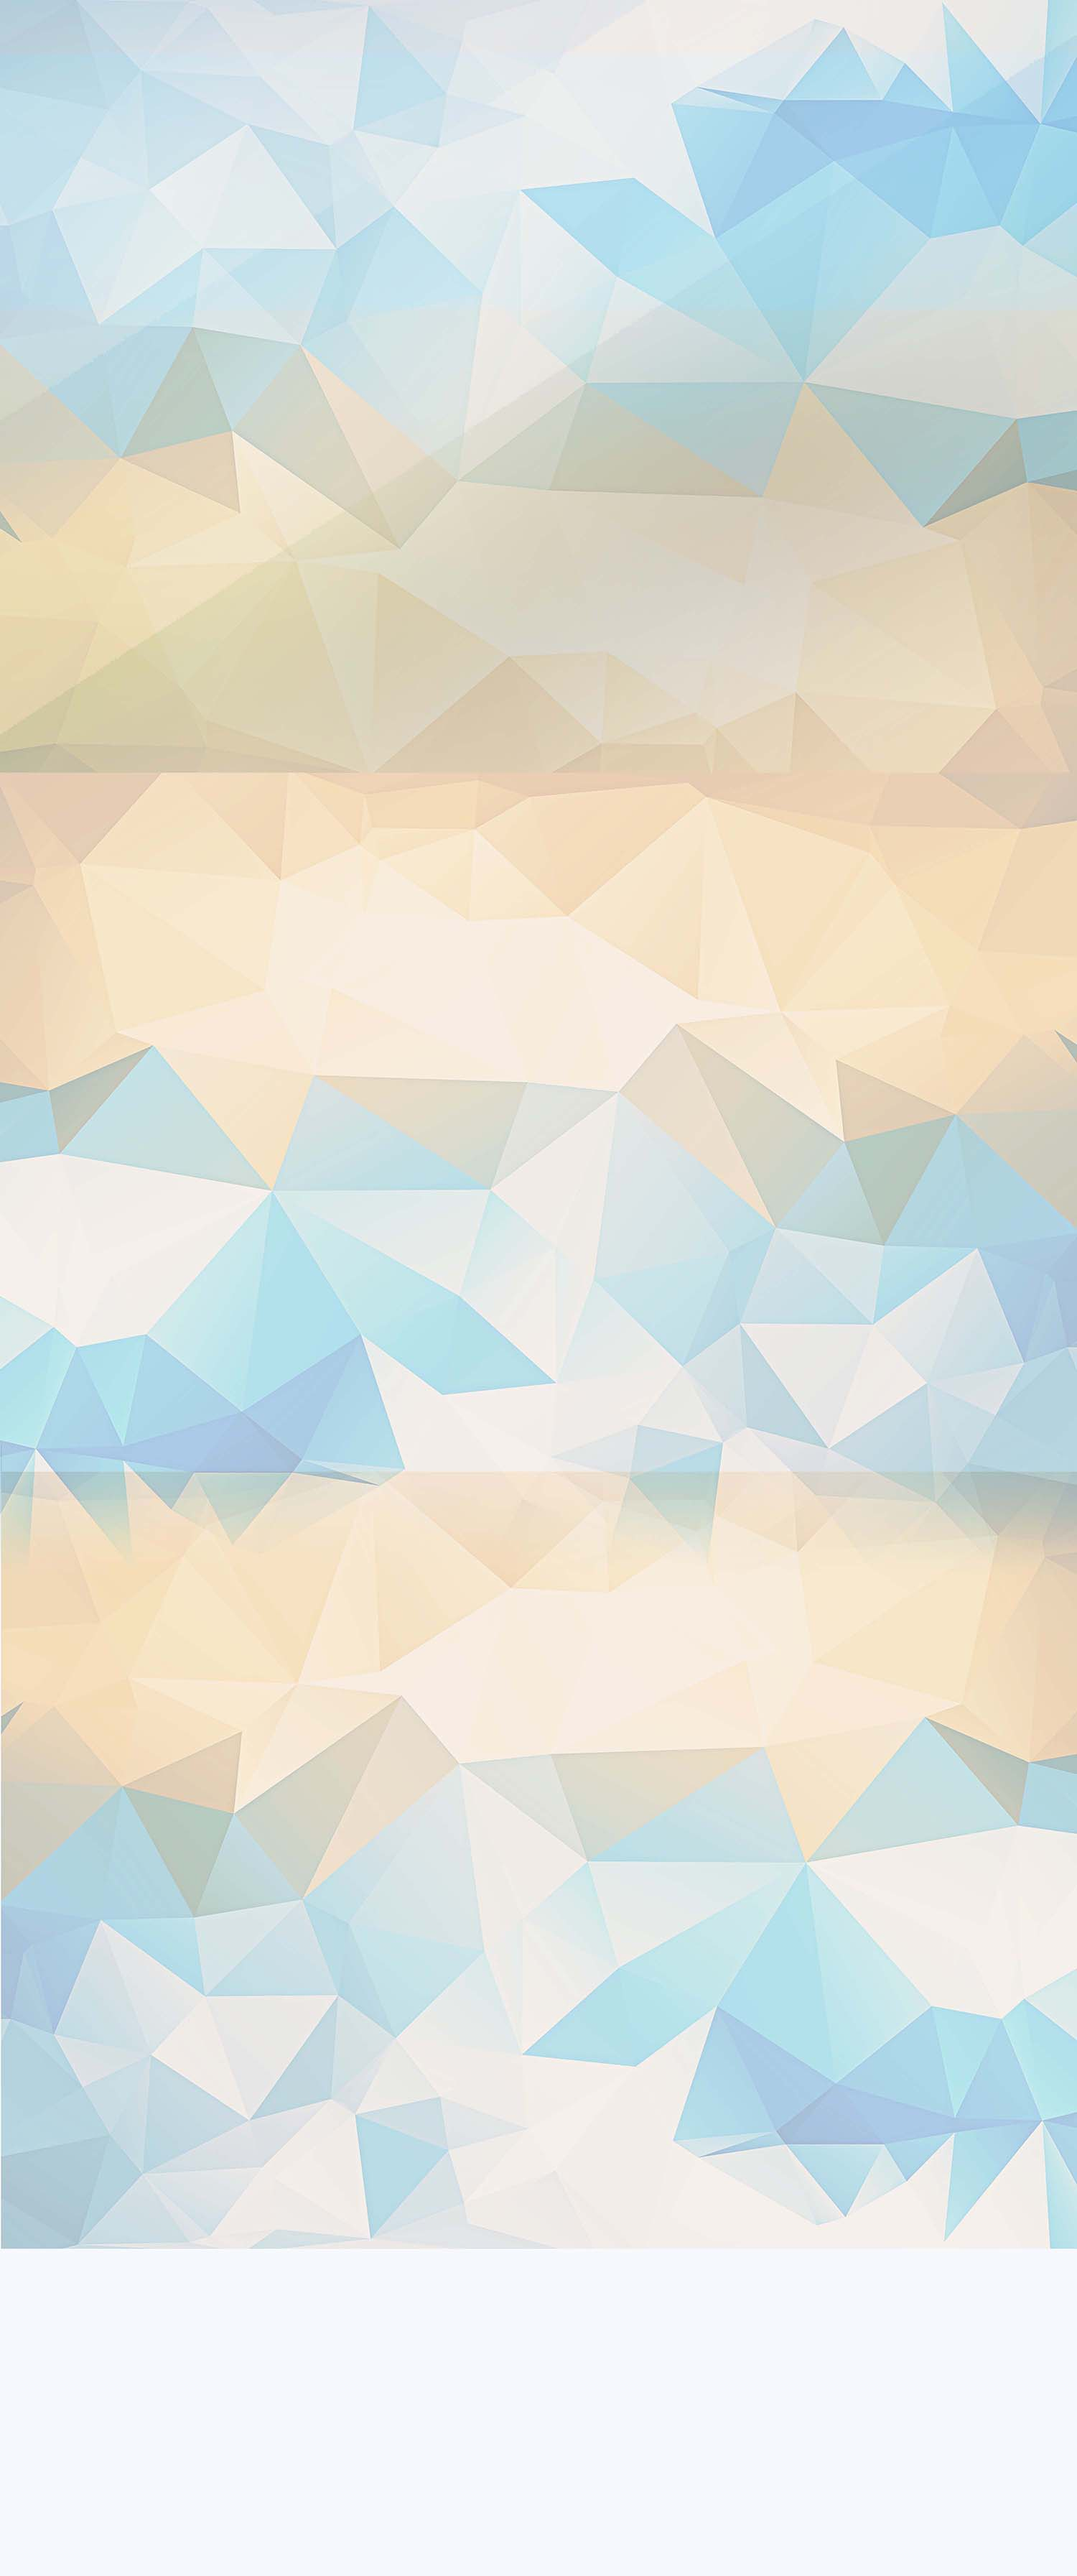
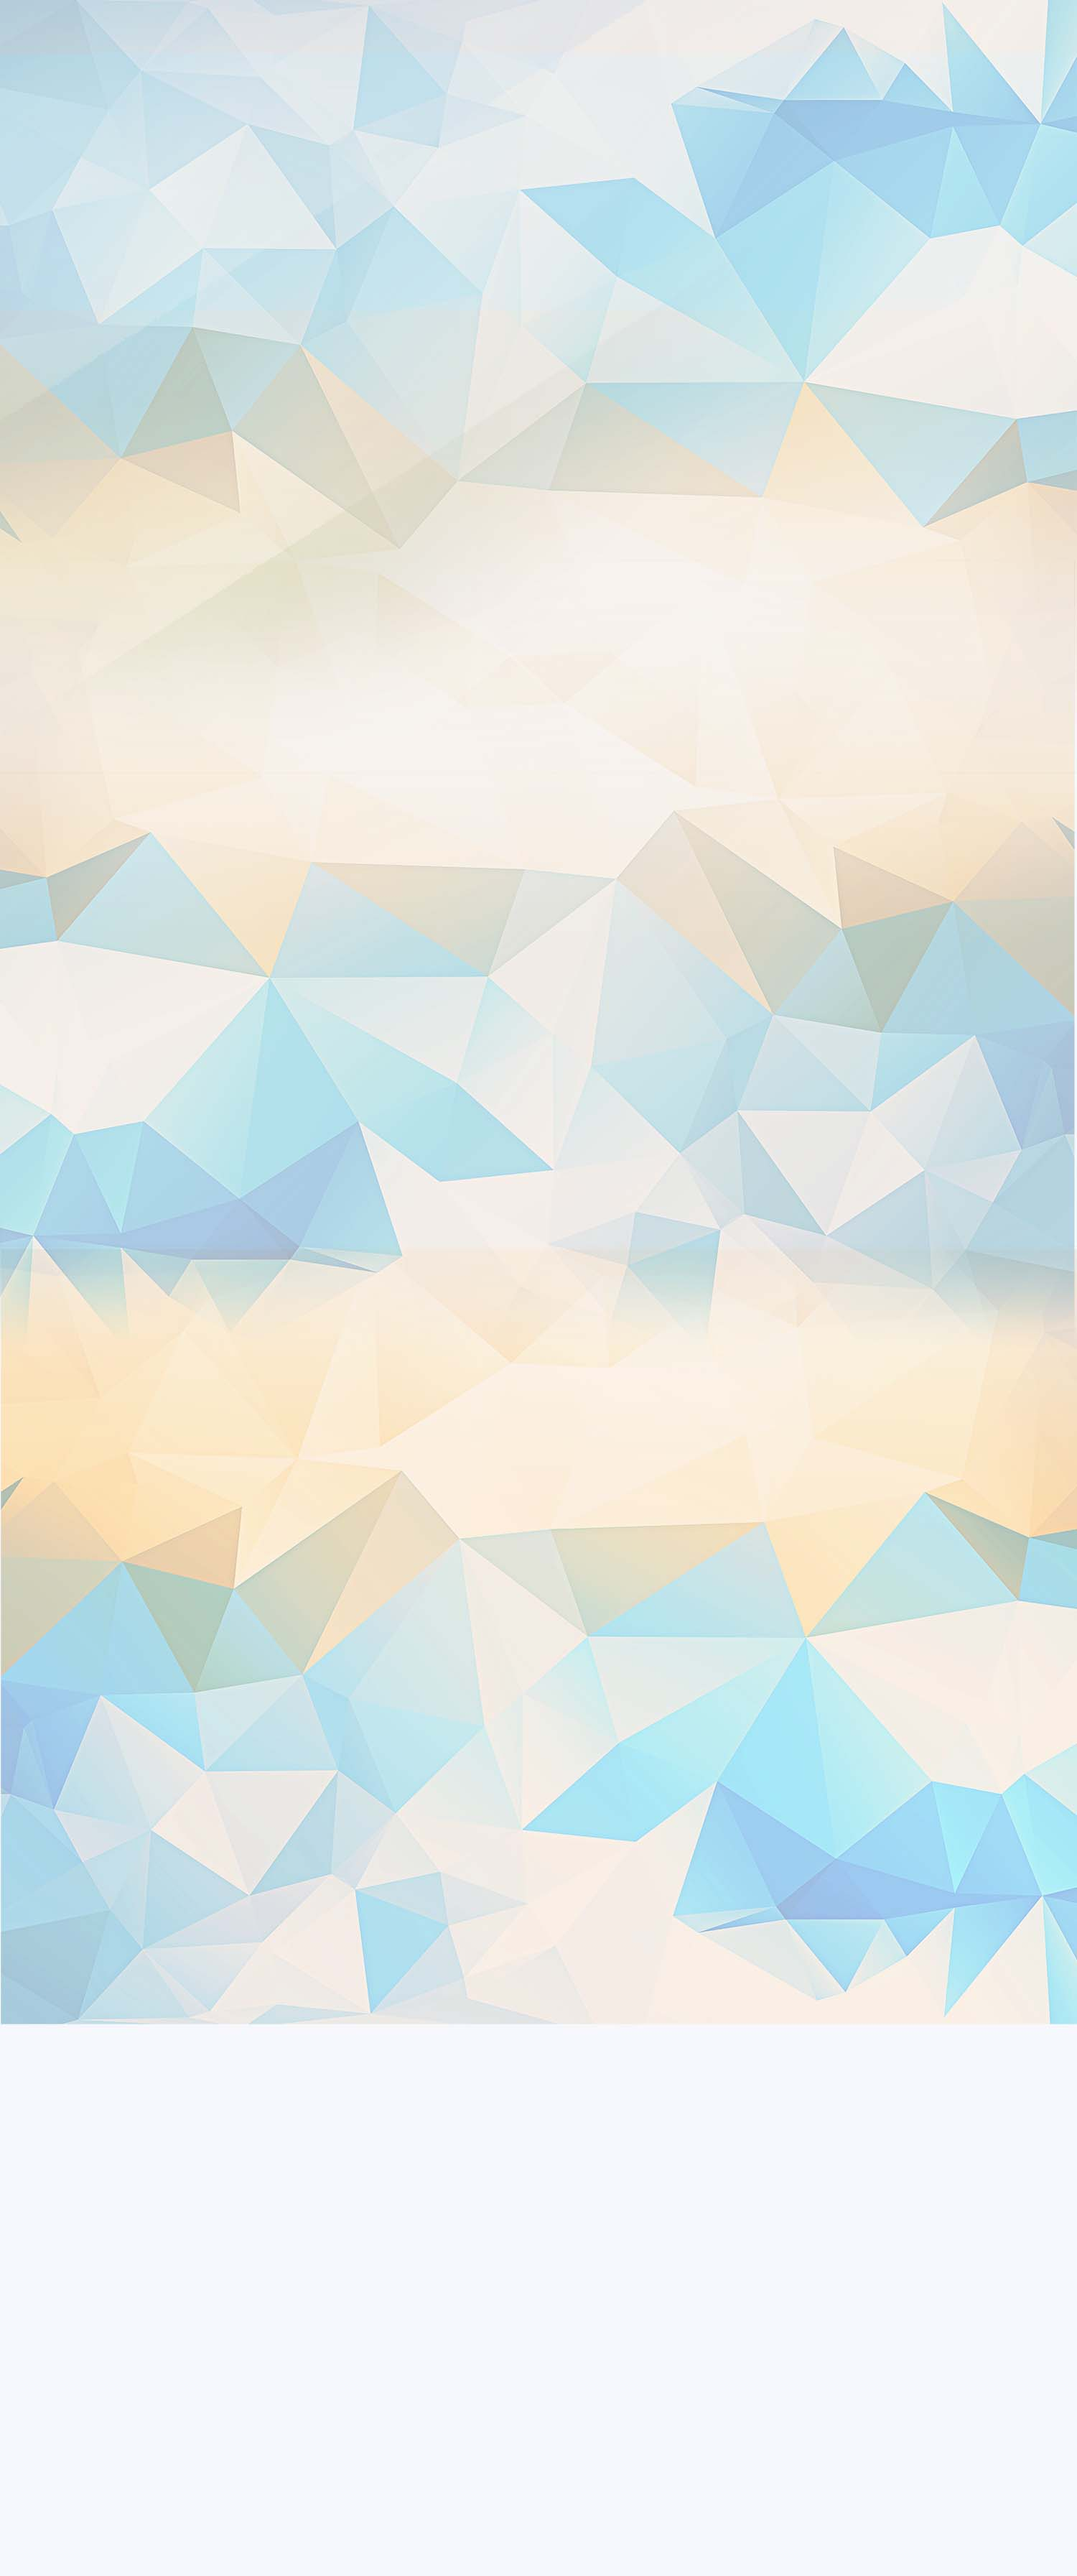
Fix section height in combination with background

diff --git a/sass/components/home/_roadmap.scss b/sass/components/home/_roadmap.scss
@@ -2,7 +2,7 @@ $mileStoneWidth: 220px;
 
 .home .roadmap {
   height: 450px;
-  background-color: rgba(255,255,255,0.4);
+  background-color: rgba(255,255,255,0.1);
 
   .milestone-step {
     width: $mileStoneWidth;

diff --git a/sass/components/home/_values.scss b/sass/components/home/_values.scss
@@ -2,7 +2,7 @@ $stakeHolderWidth: 280px;
 
 .home .values {
   height: 600px;
-  background-color: rgba(255,255,255,0.7);
+  background-color: rgba(255,255,255,0.2);
 
   .stakeholder {
     width: $stakeHolderWidth;

diff --git a/sass/components/home/_goals.scss b/sass/components/home/_goals.scss
@@ -2,7 +2,7 @@ $goalWidth: 340px;
 
 .home .goals {
   height: 600px;
-  background-color: rgba(255,255,255,0.4);
+  background-color: rgba(255,255,255,0.8);
 
   .gr-4 {
     padding-right: 20px;

diff --git a/sass/components/home/_steps.scss b/sass/components/home/_steps.scss
@@ -1,6 +1,6 @@
 .home .steps {
   height: 450px;
-  background-color: rgba(255,255,255,0.4);
+  background-color: rgba(255,255,255,0.6);
 
   .wizard-step {
     text-align: center;

diff --git a/sass/components/home/_team.scss b/sass/components/home/_team.scss
@@ -1,6 +1,6 @@
 .home .team {
   height: 950px;
-  background-color: #ffffff;
+  background-color: rgba(255,255,255,0.8);
 
   .member {
     width: 300px;
